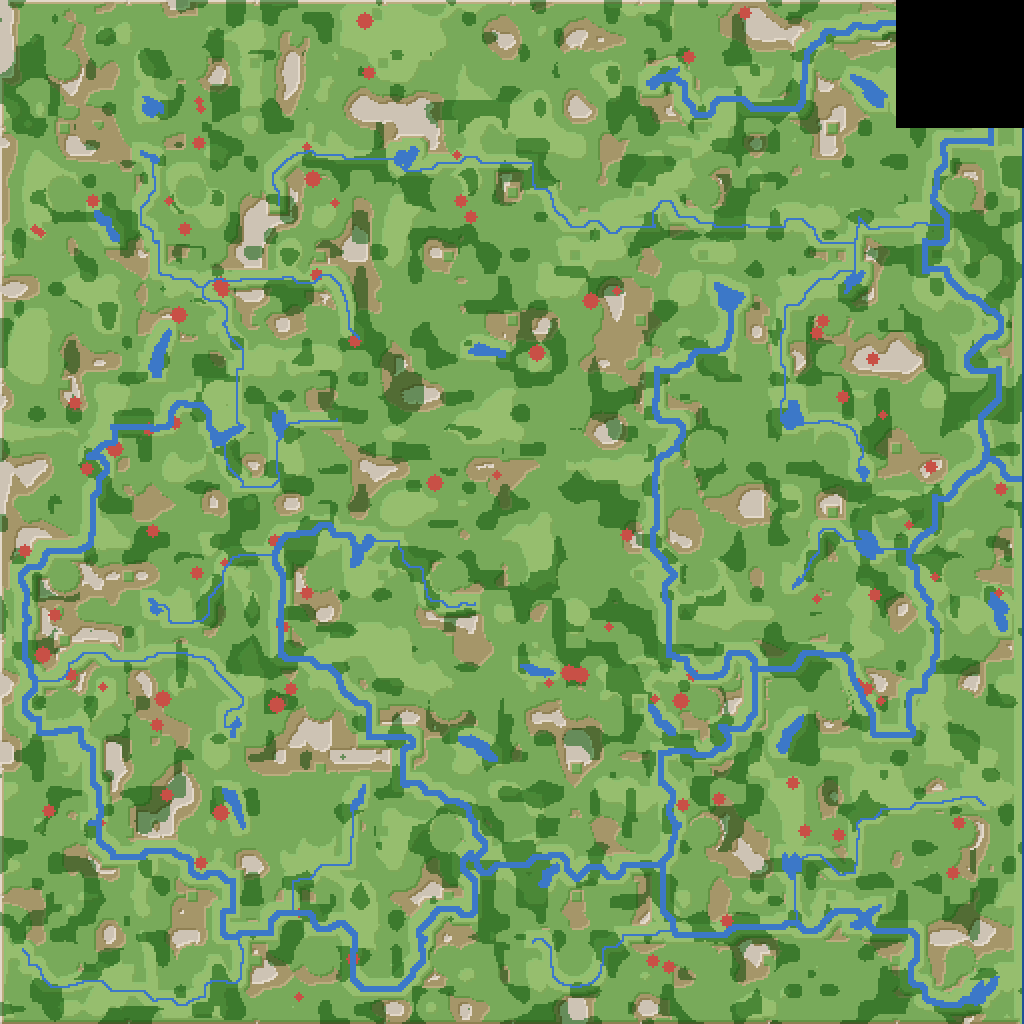
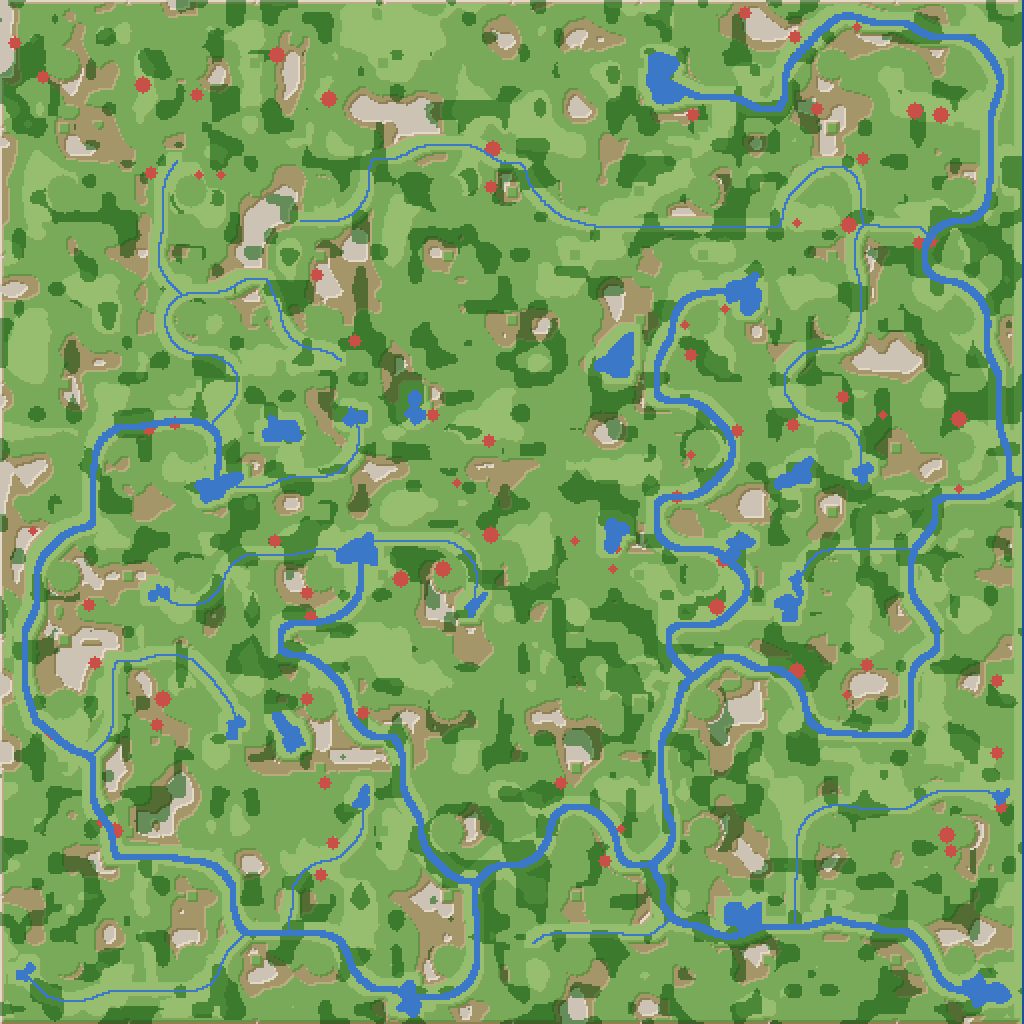
chore(spike): 第二轮加入新手走廊和河道平滑，判据基本满足

diff --git a/spikes/river-network/rivers.js b/spikes/river-network/rivers.js
@@ -1,8 +1,10 @@
 'use strict';
 
 const { MinHeap } = require('./core');
+const { lineLook } = require('./verify');
 
 const STUB = 7;
+const PINNED = 5;
 const NEIGHBORS = [
   [0, -1, 1], [1, 0, 1], [0, 1, 1], [-1, 0, 1],
   [1, -1, 1.414], [1, 1, 1.414], [-1, 1, 1.414], [-1, -1, 1.414],
@@ -19,18 +21,17 @@ function stubPoints(side, offset, N) {
   return points;
 }
 
-function chaikin(points, iterations) {
-  let list = points;
-  for (let it = 0; it < iterations; it++) {
-    const next = [list[0]];
-    for (let i = 0; i < list.length - 1; i++) {
-      const [ax, ay] = list[i];
-      const [bx, by] = list[i + 1];
-      next.push([ax * 0.75 + bx * 0.25, ay * 0.75 + by * 0.25]);
-      next.push([ax * 0.25 + bx * 0.75, ay * 0.25 + by * 0.75]);
+// 边界口的直段不动，其余部分反复做滑动平均，把格子路径的小折角磨成大弯。
+function relax(points, keepHead, keepTail, passes) {
+  const list = points.map((p) => [p[0], p[1]]);
+  const last = list.length - 1 - keepTail;
+  for (let pass = 0; pass < passes; pass++) {
+    const previous = list.map((p) => [p[0], p[1]]);
+    for (let i = keepHead; i <= last; i++) {
+      if (i <= 0 || i >= list.length - 1) continue;
+      list[i][0] = previous[i - 1][0] * 0.25 + previous[i][0] * 0.5 + previous[i + 1][0] * 0.25;
+      list[i][1] = previous[i - 1][1] * 0.25 + previous[i][1] * 0.5 + previous[i + 1][1] * 0.25;
     }
-    next.push(list[list.length - 1]);
-    list = next;
   }
   return list;
 }
@@ -42,6 +43,7 @@ function resample(points, step) {
     const [ax, ay] = points[i];
     const [bx, by] = points[i + 1];
     const length = Math.hypot(bx - ax, by - ay);
+    if (length === 0) continue;
     let at = step - carry;
     while (at <= length) {
       const t = at / length;
@@ -89,14 +91,15 @@ function dijkstra(N, start, free, cost, isGoal) {
 
 // 把河道画进城市：干流、支流和湖泊都写入 ctx.water，返回中心线。
 function carveRivers(ctx) {
-  const { N, sides, rng, canBeWater, blocked, water, pinTile, meander, originX, originY, opt } = ctx;
+  const { N, sides, rng, canBeWater, blocked, corridor, water, pinTile, meander, originX, originY, opt } = ctx;
   const tid = (x, y) => y * N + x;
   const band = (x, y) => Math.min(x, y, N - 1 - x, N - 1 - y);
 
   const nogo = new Uint8Array(N * N);
   for (let y = 0; y < N; y++) {
     for (let x = 0; x < N; x++) {
-      if (blocked[tid(x, y)] || band(x, y) < 4 || !canBeWater(x, y)) nogo[tid(x, y)] = 1;
+      const t = tid(x, y);
+      if (blocked[t] || corridor[t] || band(x, y) < 4 || !canBeWater(x, y)) nogo[t] = 1;
     }
   }
   const margin = opt.routeMargin;
@@ -116,10 +119,22 @@ function carveRivers(ctx) {
   const free = (x, y) => freeGrid[tid(x, y)] === 1;
   const cost = (x, y) => {
     const n = meander(originX + x, originY + y);
-    const hug = 1 + 3 * Math.abs(n - 0.5) * 2;
-    return hug * hug;
+    return 1 + opt.meanderWeight * n * n;
   };
 
+  const check = (x, y, radius) => {
+    const cx = Math.round(x);
+    const cy = Math.round(y);
+    for (let dy = -radius; dy <= radius; dy++) {
+      for (let dx = -radius; dx <= radius; dx++) {
+        const px = cx + dx;
+        const py = cy + dy;
+        if (px < 0 || py < 0 || px >= N || py >= N) continue;
+        if (blocked[tid(px, py)] || corridor[tid(px, py)] || !canBeWater(px, py)) return false;
+      }
+    }
+    return true;
+  };
   const stamp = (x, y, radius) => {
     const cx = Math.round(x);
     const cy = Math.round(y);
@@ -128,42 +143,48 @@ function carveRivers(ctx) {
         const px = cx + dx;
         const py = cy + dy;
         if (px < 0 || py < 0 || px >= N || py >= N) continue;
-        if (blocked[tid(px, py)] || !canBeWater(px, py)) return false;
         water[tid(px, py)] = 1;
         pinTile(px, py, 0);
       }
     }
-    return true;
   };
 
-  const lines = [];
-  const paint = (points, kind) => {
-    const smooth = chaikin(points, 3);
-    const samples = resample(smooth, 0.4);
-    let lastX = null;
-    let lastY = null;
+  const tilesOf = (points) => {
+    const samples = resample(points, 0.4);
+    const out = [];
+    let last = null;
     for (const [x, y] of samples) {
       const tx = Math.round(x);
       const ty = Math.round(y);
-      if (kind === 'main') {
-        if (!stamp(x, y, 1)) return false;
-      } else {
-        // 支流要 4 邻接，斜着走时补一格。
-        if (lastX !== null && tx !== lastX && ty !== lastY && !stamp(tx, lastY, 0)) return false;
-        if (!stamp(tx, ty, 0)) return false;
-      }
-      lastX = tx;
-      lastY = ty;
+      if (last && tx === last[0] && ty === last[1]) continue;
+      // 支流要 4 邻接，斜着走时补一格；干流的 3×3 章本来就连续。
+      if (last && tx !== last[0] && ty !== last[1]) out.push([tx, last[1]]);
+      out.push([tx, ty]);
+      last = [tx, ty];
     }
-    lines.push({ kind, points: smooth });
+    return out;
+  };
+
+  const lines = [];
+  const smoothLine = (points, freeEnd) => relax(points, PINNED, freeEnd ? 0 : PINNED, opt.relaxPasses);
+  const tryPaint = (points, kind) => {
+    const tiles = tilesOf(points);
+    const radius = kind === 'main' ? 1 : 0;
+    for (const [x, y] of tiles) if (!check(x, y, radius)) return false;
+    for (const [x, y] of tiles) stamp(x, y, radius);
+    lines.push({ kind, points });
     return true;
+  };
+  const looksFine = (points) => {
+    const look = lineLook(points);
+    return look.loops === 0 && look.sharp === 0;
   };
 
   const lake = (cx, cy, radius) => {
     const p = [rng() * 6.28, rng() * 6.28, rng() * 6.28];
-    const stretch = 0.7 + rng() * 0.6;
+    const stretch = opt.lakeStretchMin + rng() * opt.lakeStretchSpread;
     const turn = rng() * 3.14;
-    const reach = Math.ceil(radius * 2);
+    const reach = Math.ceil(radius * 2.2);
     for (let dy = -reach; dy <= reach; dy++) {
       for (let dx = -reach; dx <= reach; dx++) {
         const x = cx + dx;
@@ -172,9 +193,9 @@ function carveRivers(ctx) {
         const u = dx * Math.cos(turn) + dy * Math.sin(turn);
         const v = (-dx * Math.sin(turn) + dy * Math.cos(turn)) * (1 + stretch);
         const angle = Math.atan2(v, u);
-        const r = radius * (1 + 0.32 * Math.sin(2 * angle + p[0]) + 0.2 * Math.sin(3 * angle + p[1]) + 0.12 * Math.sin(5 * angle + p[2]));
+        const r = radius * (1 + 0.3 * Math.sin(2 * angle + p[0]) + 0.22 * Math.sin(3 * angle + p[1]) + 0.14 * Math.sin(5 * angle + p[2]));
         if (Math.hypot(u, v) > r) continue;
-        if (blocked[tid(x, y)] || !canBeWater(x, y)) continue;
+        if (blocked[tid(x, y)] || corridor[tid(x, y)] || !canBeWater(x, y)) continue;
         water[tid(x, y)] = 1;
         pinTile(x, y, 0);
       }
@@ -204,7 +225,7 @@ function carveRivers(ctx) {
     return best;
   };
 
-  // 两点之间绕一个偏离直线的路点，让河道形成大弯。
+  // 两个边界口之间绕一个偏离直线的路点，让河道形成大弯；观感不合格就换一个路点，最后才走直线路径。
   const connectTwo = (a, b) => {
     const [ax, ay] = a[a.length - 1];
     const [bx, by] = b[b.length - 1];
@@ -213,38 +234,48 @@ function carveRivers(ctx) {
     const length = Math.hypot(bx - ax, by - ay) || 1;
     const nx = -(by - ay) / length;
     const ny = (bx - ax) / length;
-    let way = null;
-    for (let tries = 0; tries < 8 && !way; tries++) {
+    const tail = [...b].reverse().slice(1);
+    let fallback = null;
+    for (let tries = 0; tries < opt.waypointTries; tries++) {
       const swing = (opt.swingMin + rng() * opt.swingSpread) * (rng() < 0.5 ? -1 : 1);
       const wx = Math.round(mx + nx * swing);
       const wy = Math.round(my + ny * swing);
-      if (wx >= 0 && wy >= 0 && wx < N && wy < N && free(wx, wy)) way = [wx, wy];
-    }
-    if (!way) {
-      const direct = route([ax, ay], (x, y) => x === bx && y === by);
-      return direct ? [...a, ...direct.slice(1), ...[...b].reverse().slice(1)] : null;
-    }
-    const first = route([ax, ay], (x, y) => x === way[0] && y === way[1]);
-    if (!first) return null;
-    const used = new Uint8Array(N * N);
-    for (const [x, y] of first) {
-      for (let dy = -3; dy <= 3; dy++) {
-        for (let dx = -3; dx <= 3; dx++) {
-          const px = x + dx;
-          const py = y + dy;
-          if (px >= 0 && py >= 0 && px < N && py < N && Math.hypot(px - way[0], py - way[1]) > 5) used[tid(px, py)] = 1;
+      if (wx < 0 || wy < 0 || wx >= N || wy >= N || !free(wx, wy)) continue;
+      const first = route([ax, ay], (x, y) => x === wx && y === wy);
+      if (!first) continue;
+      const used = new Uint8Array(N * N);
+      for (const [x, y] of first) {
+        for (let dy = -6; dy <= 6; dy++) {
+          for (let dx = -6; dx <= 6; dx++) {
+            const px = x + dx;
+            const py = y + dy;
+            if (px >= 0 && py >= 0 && px < N && py < N && Math.hypot(px - wx, py - wy) > 8) used[tid(px, py)] = 1;
+          }
         }
       }
+      const second = route([wx, wy], (x, y) => x === bx && y === by, (x, y) => used[tid(x, y)] === 1);
+      if (!second) continue;
+      const line = smoothLine([...a, ...first.slice(1), ...second.slice(1), ...tail], false);
+      if (looksFine(line)) return line;
+      fallback = fallback || line;
     }
-    const second = route(way, (x, y) => x === bx && y === by, (x, y) => used[tid(x, y)] === 1);
-    if (!second) return null;
-    return [...a, ...first.slice(1), ...second.slice(1), ...[...b].reverse().slice(1)];
+    const direct = route([ax, ay], (x, y) => x === bx && y === by);
+    if (direct) {
+      const line = smoothLine([...a, ...direct.slice(1), ...tail], false);
+      if (looksFine(line) || !fallback) return line;
+    }
+    return fallback;
   };
 
+  const toPoint = (stub, target) => {
+    const end = stub[stub.length - 1];
+    const path = route(end, (x, y) => x === target[0] && y === target[1]);
+    return path ? smoothLine([...stub, ...path.slice(1)], true) : null;
+  };
   const toNetwork = (stub) => {
     const end = stub[stub.length - 1];
     const path = route(end, (x, y) => water[tid(x, y)] === 1 && band(x, y) >= 4);
-    return path ? [...stub, ...path.slice(1)] : null;
+    return path ? smoothLine([...stub, ...path.slice(1)], false) : null;
   };
 
   const mains = [];
@@ -261,37 +292,36 @@ function carveRivers(ctx) {
     const end = stub[stub.length - 1];
     const target = interiorPoint(end[0], end[1], 14);
     if (!target) return { ok: false };
-    const path = route(end, (x, y) => x === target[0] && y === target[1]);
-    if (!path) return { ok: false };
-    if (!paint([...stub, ...path.slice(1)], 'main')) return { ok: false };
+    const line = toPoint(stub, target);
+    if (!line || !tryPaint(line, 'main')) return { ok: false };
     lake(target[0], target[1], opt.sourceLakeMin + rng() * opt.sourceLakeSpread);
   } else if (mains.length >= 2) {
     const whole = connectTwo(mains[0], mains[1]);
-    if (!whole || !paint(whole, 'main')) return { ok: false };
+    if (!whole || !tryPaint(whole, 'main')) return { ok: false };
     for (let i = 2; i < mains.length; i++) {
       const line = toNetwork(mains[i]);
-      if (!line || !paint(line, 'main')) return { ok: false };
+      if (!line || !tryPaint(line, 'main')) return { ok: false };
     }
   }
 
   let remaining = tribs;
   if (mains.length === 0 && tribs.length >= 2) {
     const whole = connectTwo(tribs[0], tribs[1]);
-    if (!whole || !paint(whole, 'trib')) return { ok: false };
+    if (!whole || !tryPaint(whole, 'trib')) return { ok: false };
     remaining = tribs.slice(2);
   } else if (mains.length === 0 && tribs.length === 1) {
     const stub = tribs[0];
     const end = stub[stub.length - 1];
     const target = interiorPoint(end[0], end[1], 16);
     if (!target) return { ok: false };
-    const path = route(end, (x, y) => x === target[0] && y === target[1]);
-    if (!path || !paint([...stub, ...path.slice(1)], 'trib')) return { ok: false };
-    if (rng() < 0.5) lake(target[0], target[1], 3 + rng() * 2);
+    const line = toPoint(stub, target);
+    if (!line || !tryPaint(line, 'trib')) return { ok: false };
+    if (rng() < 0.5) lake(target[0], target[1], opt.pondMin + rng() * opt.pondSpread);
     remaining = [];
   }
   for (const stub of remaining) {
     const line = toNetwork(stub);
-    if (!line || !paint(line, 'trib')) return { ok: false };
+    if (!line || !tryPaint(line, 'trib')) return { ok: false };
   }
 
   if (rng() < opt.lakeChance) {

diff --git a/spikes/river-network/terrain.js b/spikes/river-network/terrain.js
@@ -14,6 +14,7 @@ const SIDES = {
 const CONNECT_LEVEL = 1;
 const PAD_HALF = 2;
 const MAX_ATTEMPTS = 8;
+const CORRIDOR_HALF = 3;
 
 function createCluster(seed, N, maxLevel, opt) {
   const rng = makeRng(seed);
@@ -187,6 +188,17 @@ function attemptGenerate(cluster, sx, sy, seed, attempt, opt) {
     }
   }
 
+  // 留一条河流不能穿过的走廊，保证新手不修桥也能从市中心连到一个邻居。
+  const corridor = new Uint8Array(N * N);
+  const innerSides = Object.keys(SIDES).filter((side) => !isOuter(side, sx, sy));
+  const corridorSide = innerSides[(rng() * innerSides.length) | 0];
+  for (let along = 0; along < N / 2; along++) {
+    for (let a = mid - CORRIDOR_HALF; a <= mid + CORRIDOR_HALF; a++) {
+      const [x, y] = corridorSide === 'W' ? [along, a] : corridorSide === 'E' ? [N - 1 - along, a] : corridorSide === 'N' ? [a, along] : [a, N - 1 - along];
+      corridor[tid(x, y)] = 1;
+    }
+  }
+
   const heightAt = (x, y) => {
     const gx = originX + x;
     const gy = originY + y;
@@ -236,7 +248,7 @@ function attemptGenerate(cluster, sx, sy, seed, attempt, opt) {
     && lower[vid(x, y + 1)] <= 0 && lower[vid(x + 1, y + 1)] <= 0;
 
   const carved = carveRivers({
-    N, sides, rng, canBeWater, blocked, water, pinTile, meander: cluster.meander, originX, originY, opt,
+    N, sides, rng, canBeWater, blocked, corridor, water, pinTile, meander: cluster.meander, originX, originY, opt,
   });
   if (!carved.ok) return { ok: false, reason: 'route' };
 

diff --git a/spikes/river-network/params.js b/spikes/river-network/params.js
@@ -12,14 +12,21 @@ module.exports = {
   diagonalRamp: true,
   mainShare: 0.45,
   riverShare: 0.8,
-  meanderCell: 9,
-  routeMargin: 2,
-  swingMin: 6,
-  swingSpread: 8,
+  meanderCell: 14,
+  meanderWeight: 3,
+  routeMargin: 3,
+  relaxPasses: 40,
+  waypointTries: 6,
+  swingMin: 7,
+  swingSpread: 9,
   valley: 3,
-  lakeChance: 0.3,
-  lakeMin: 6,
+  lakeChance: 0.22,
+  lakeMin: 7,
   lakeSpread: 4,
-  sourceLakeMin: 7,
-  sourceLakeSpread: 3,
+  lakeStretchMin: 0.1,
+  lakeStretchSpread: 0.5,
+  sourceLakeMin: 8,
+  sourceLakeSpread: 4,
+  pondMin: 4,
+  pondSpread: 2,
 };
